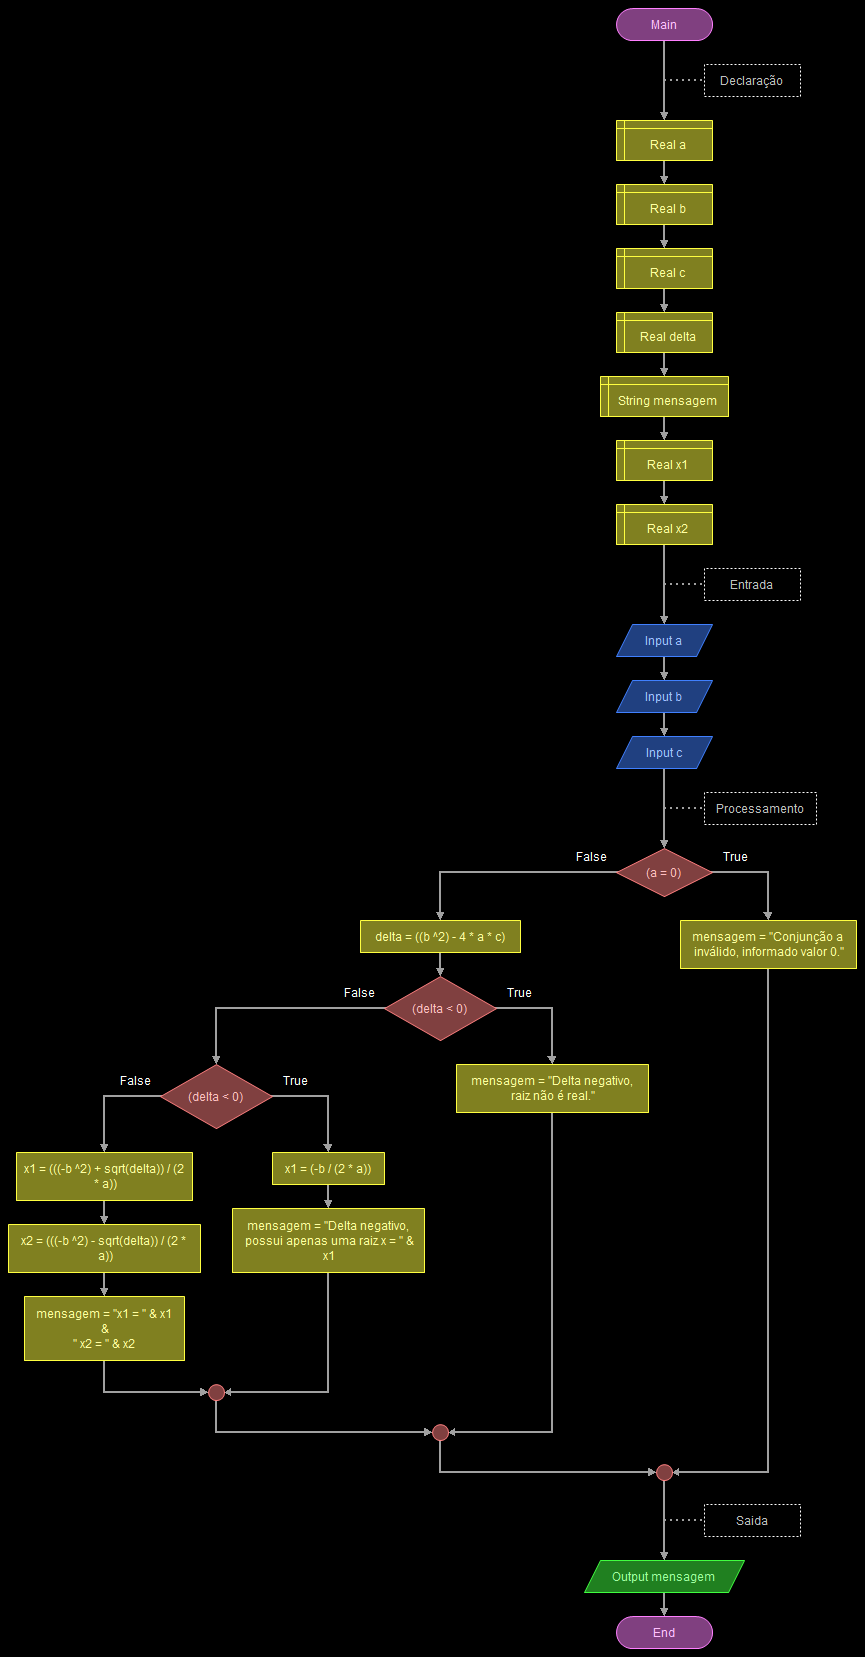
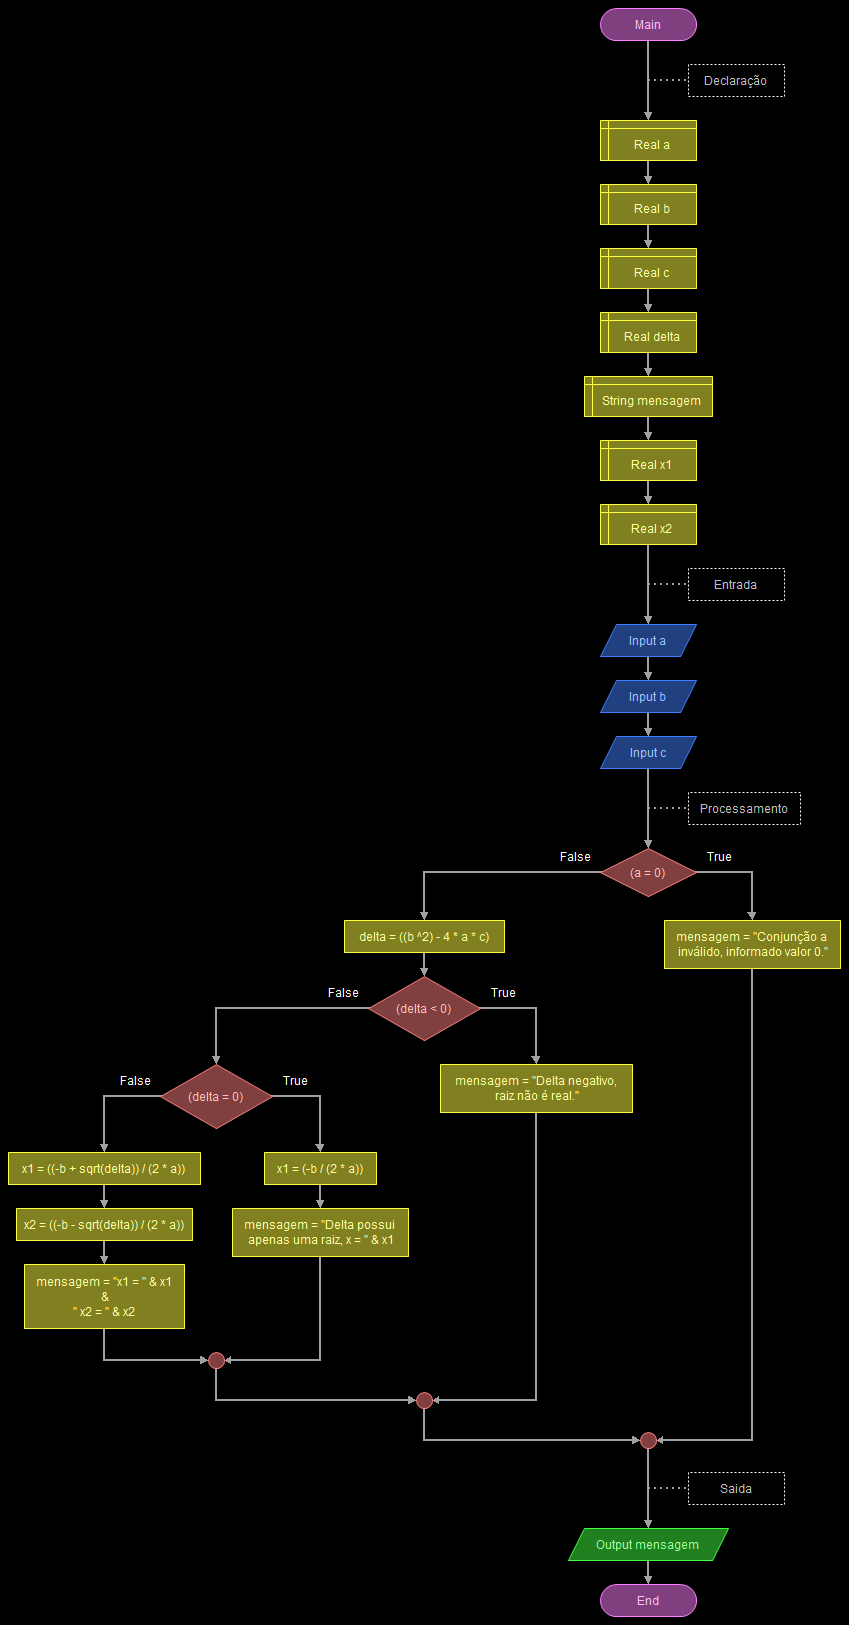
Novo algoritmo acrescentado equacaoSegundoGrau

diff --git a/CHANGELOG.md b/CHANGELOG.md
@@ -1,5 +1,9 @@
 # ChangeLog
 
+## 1.2.0
+
+* Adicionado novo algoritmo: LdP-CdAeEdD/Unidade3/equacaoSegundoGrau.alg
+
 ## 1.1.0
 
 * Adicionado nova função completa: ALP2/UN.02/EquaçãoSegundoGrau.alg
